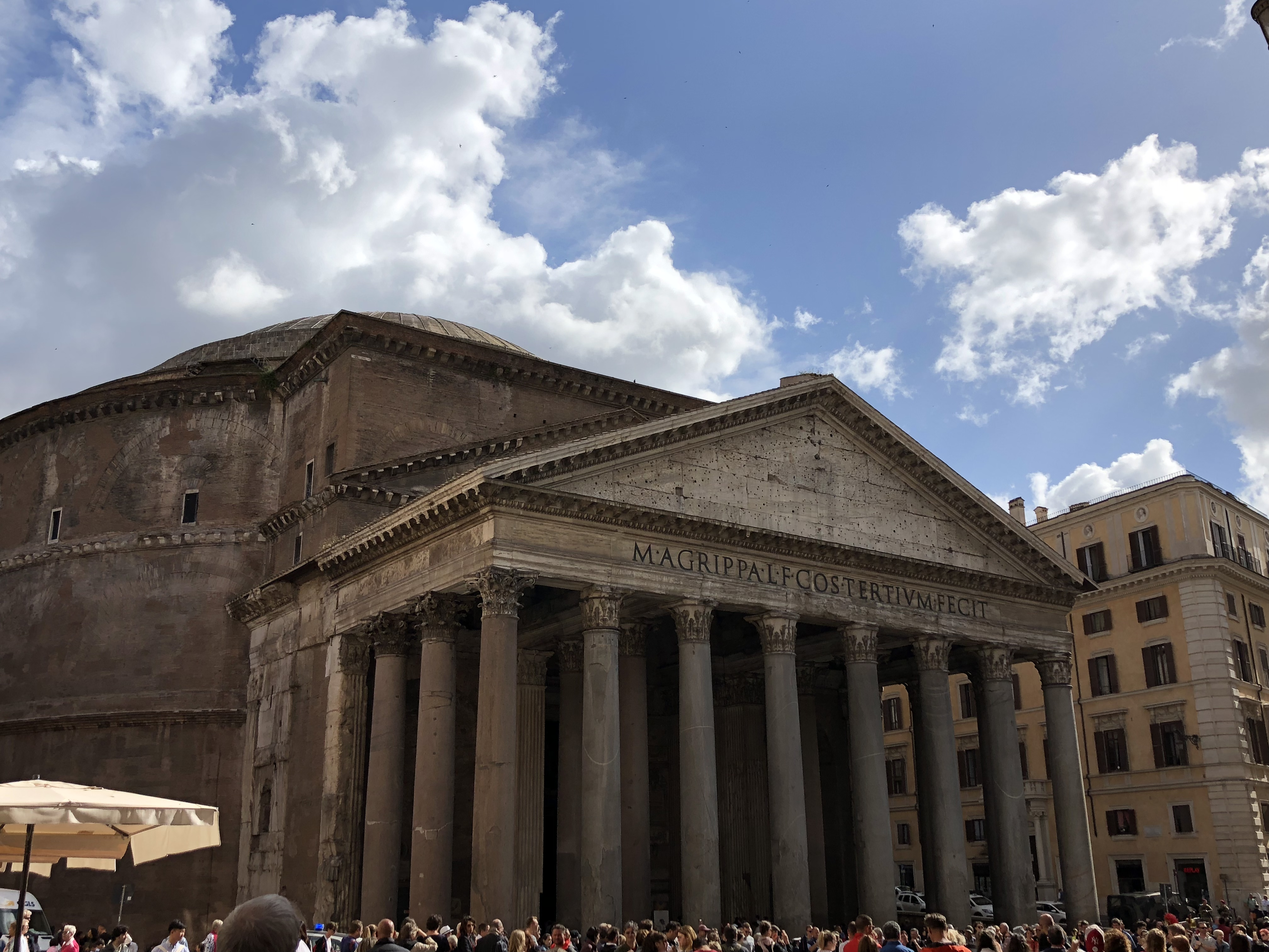
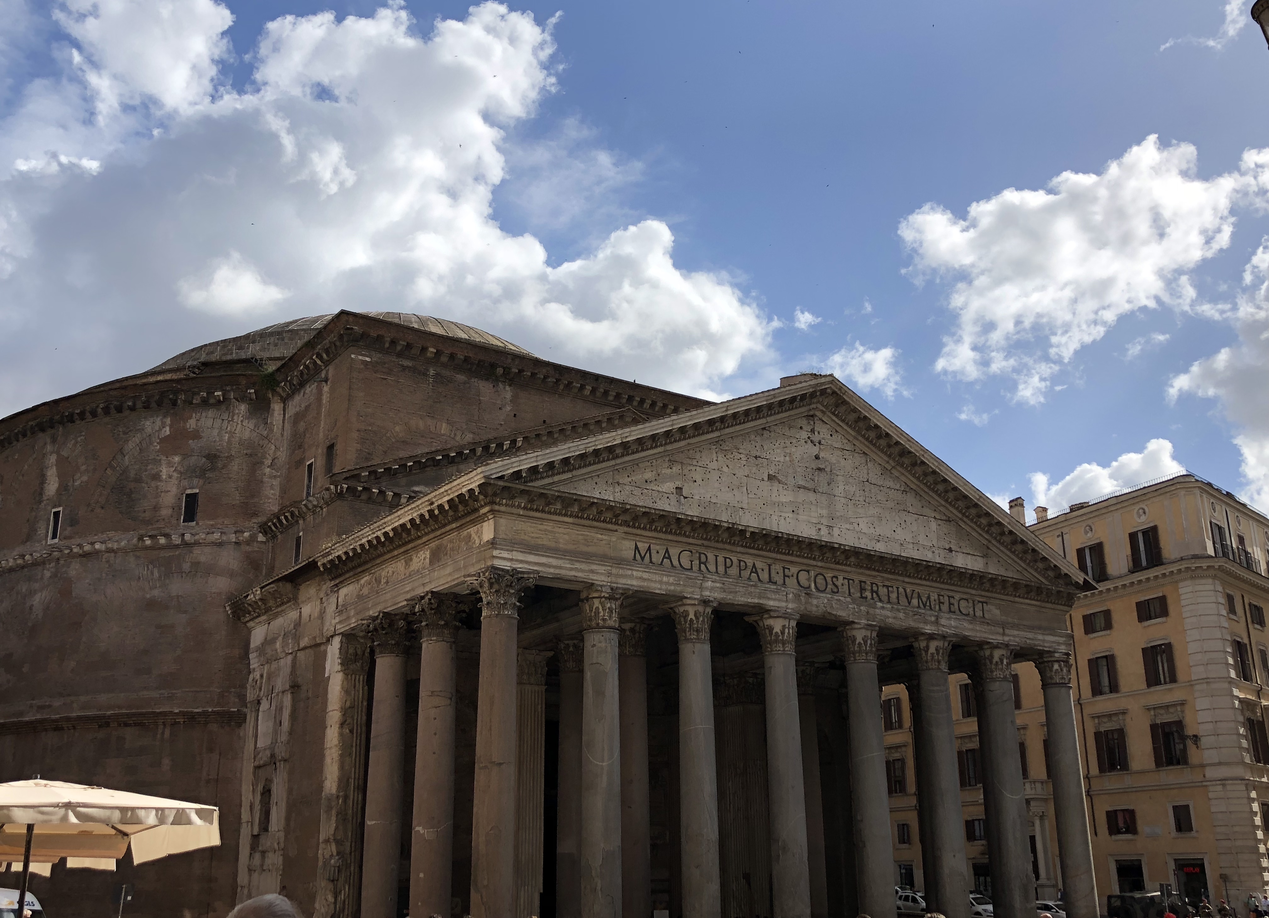
Added overlay and limited size of pictures

diff --git a/index.html b/index.html
@@ -22,7 +22,8 @@ img {vertical-align: middle;}
 
 /* Slideshow container */
 .slideshow-container {
-    max-width: 1000px;
+    max-width: 800px;
+    max-height: 600px;
     position: relative;
     margin: auto;
 }
@@ -110,6 +111,40 @@ img {vertical-align: middle;}
 /* On smaller screens, decrease text size */
 @media only screen and (max-width: 300px) {
     .prev, .next,.text {font-size: 11px}
+}
+
+.container {
+    position: relative;
+    width: 50%;
+    max-width: 300px;
+}
+
+/* Make the image to responsive */
+.image {
+    display: block;
+    width: 100%;
+    height: auto;
+}
+
+/* The overlay effect - lays on top of the container and over the image */
+.overlay {
+    position: absolute;
+    bottom: 0;
+    background: rgb(0, 0, 0);
+    background: rgba(0, 0, 0, 0.5); /* Black see-through */
+    color: #f1f1f1;
+    width: 100%;
+    transition: .5s ease;
+    opacity:0;
+    color: white;
+    font-size: 20px;
+    padding: 20px;
+    text-align: center;
+}
+
+/* When you mouse over the container, fade in the overlay title */
+.container:hover .overlay {
+    opacity: 1;
 }
 
 
